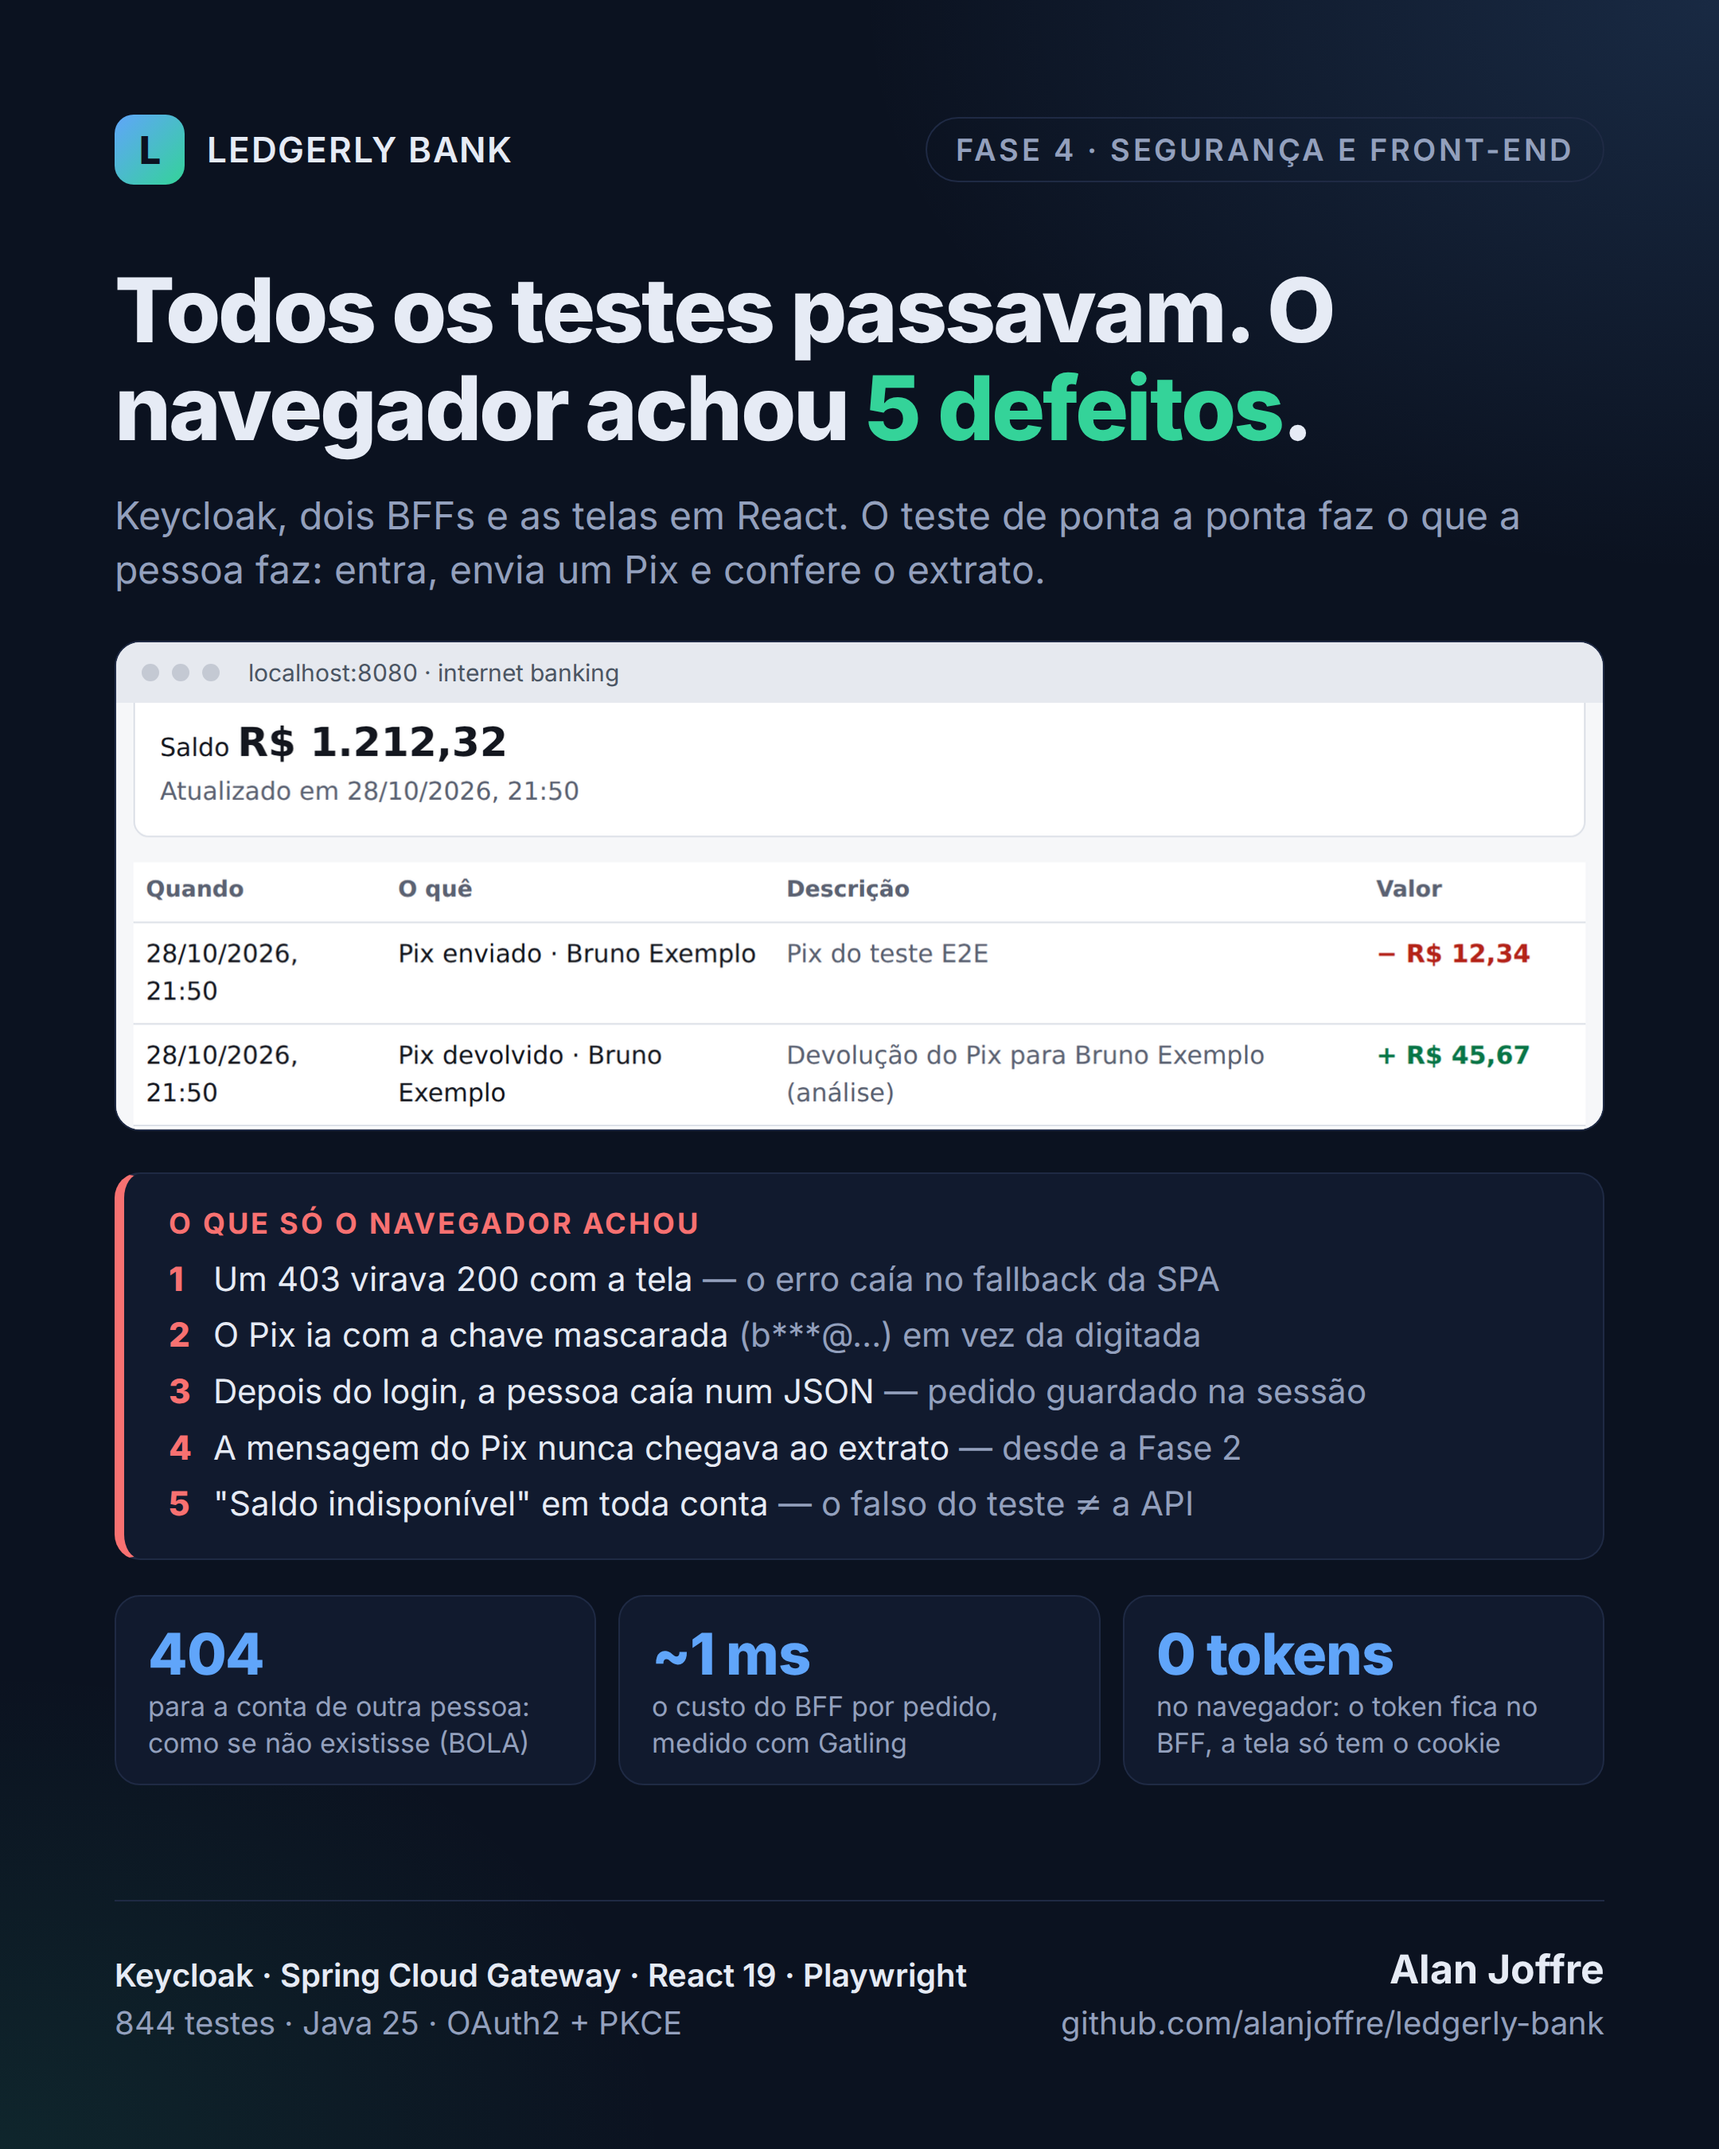
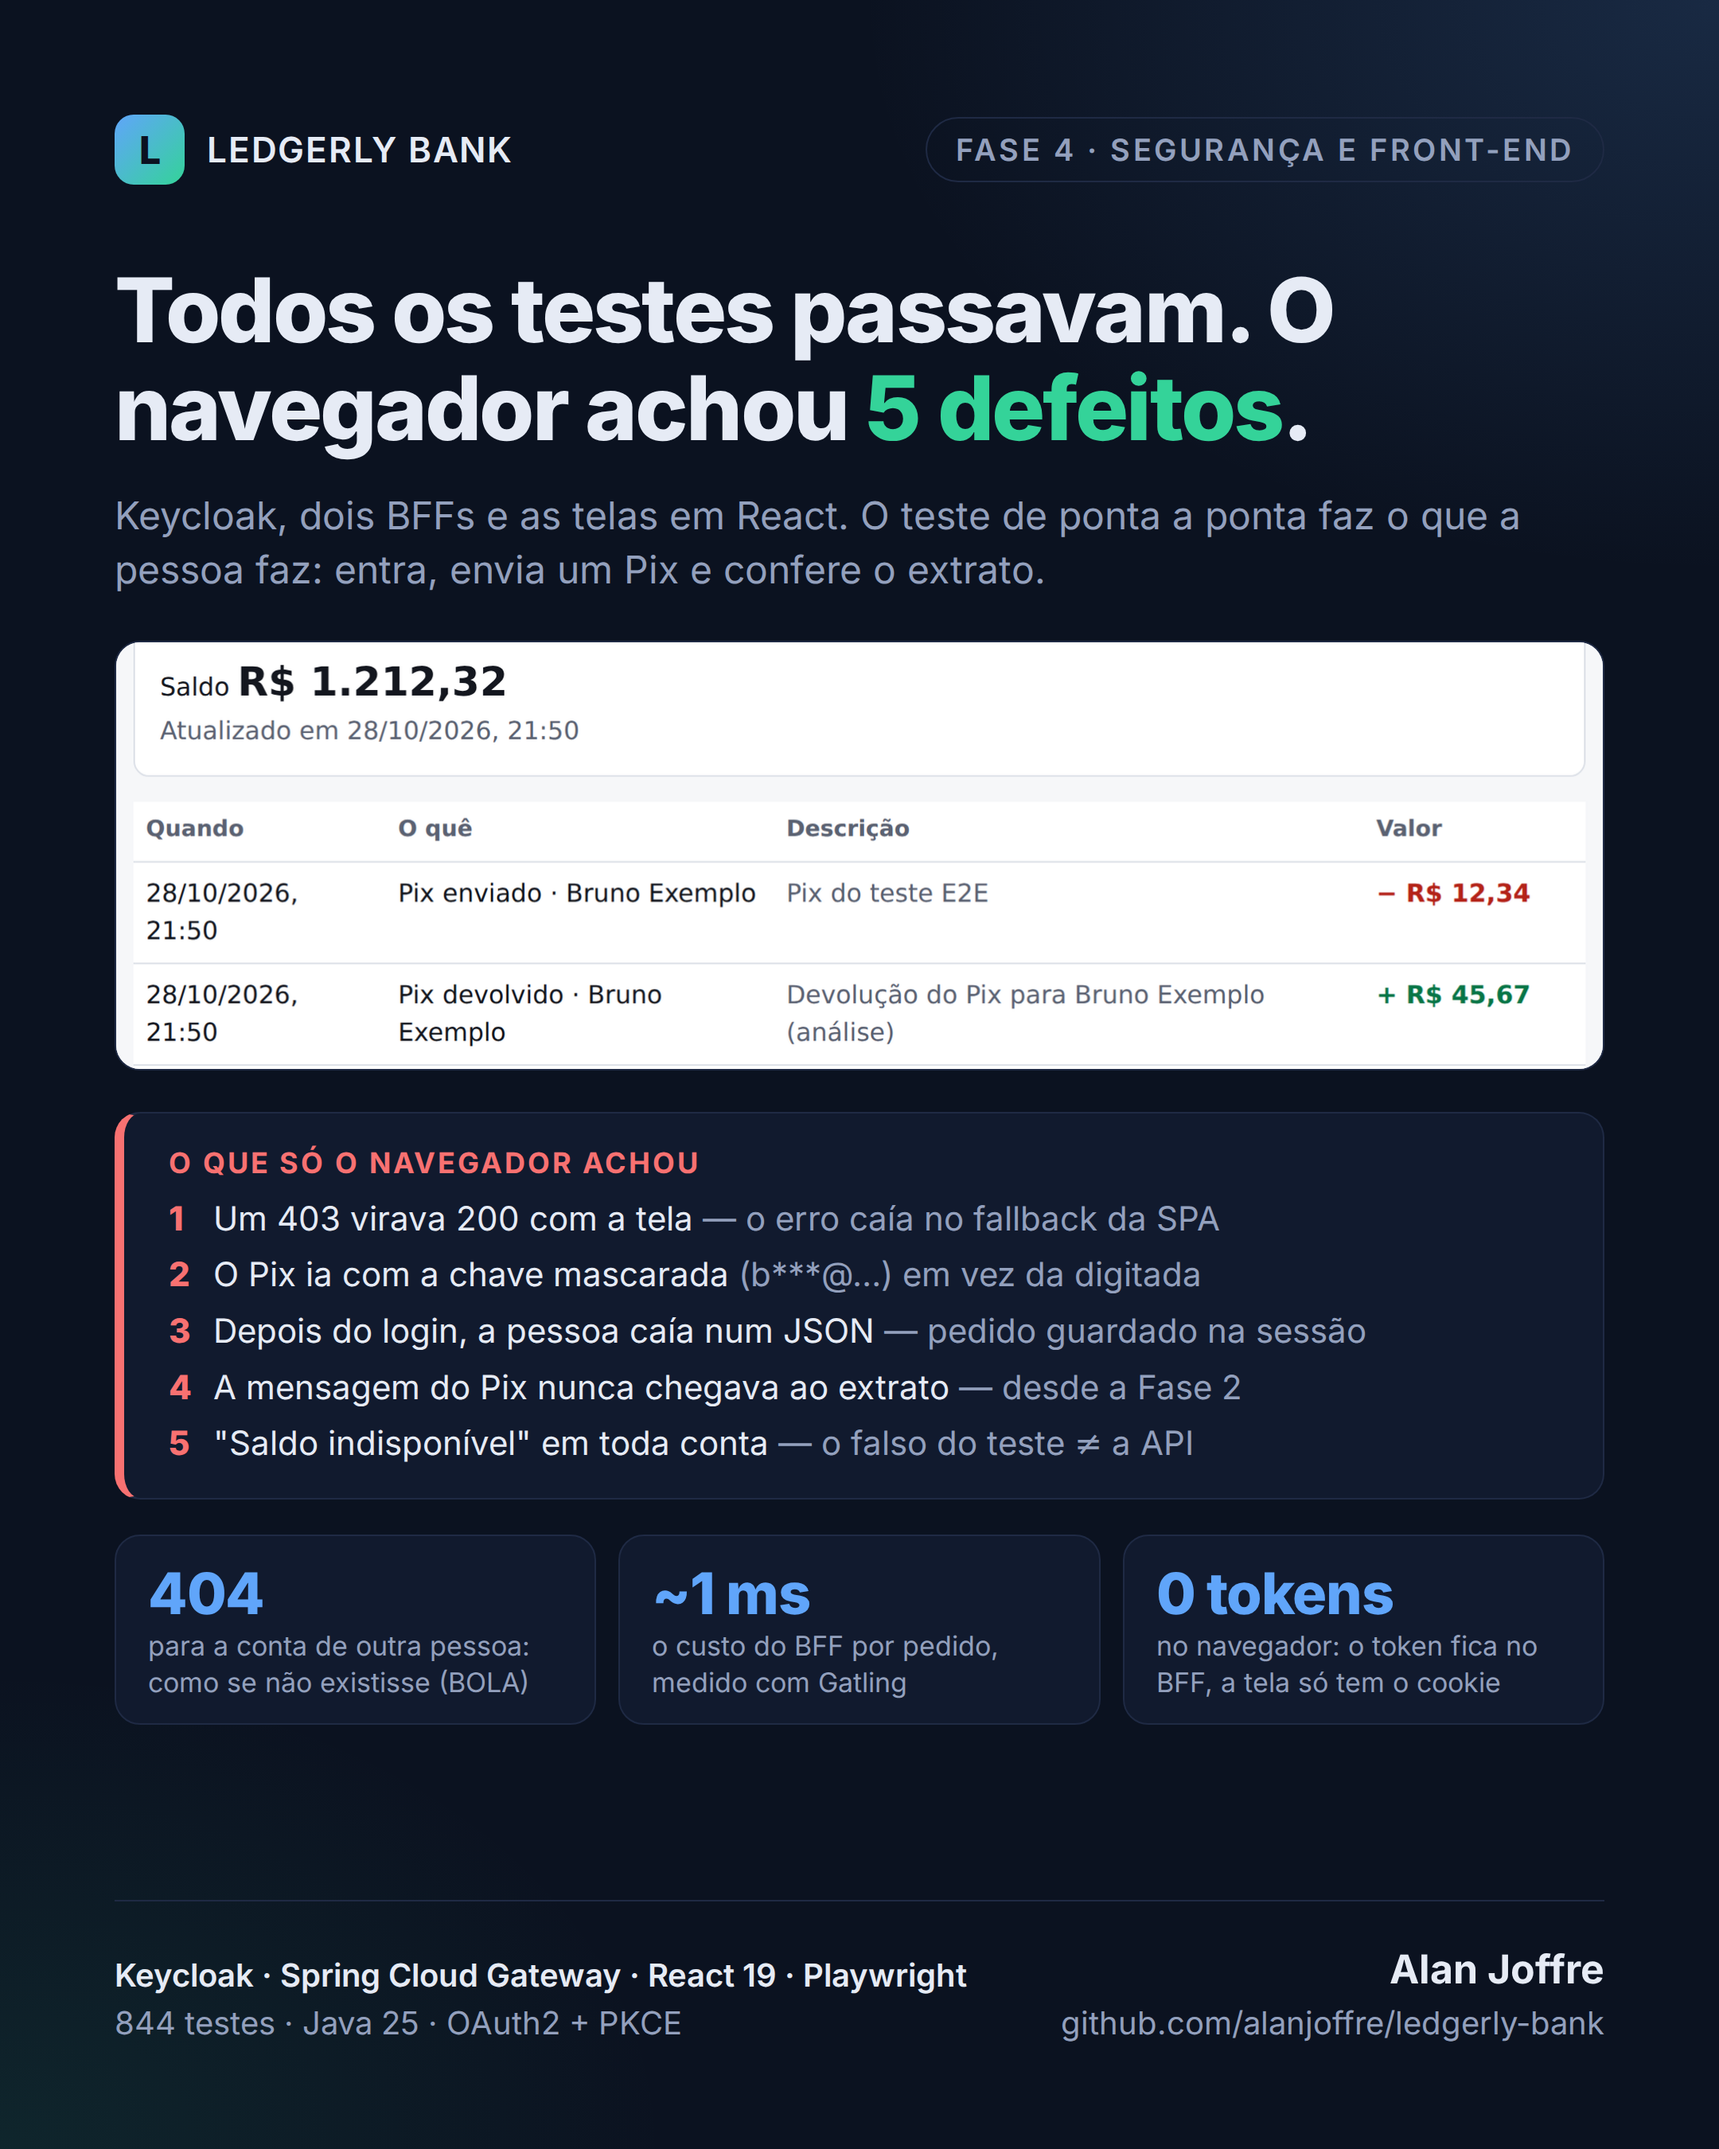
docs(linkedin): imagem da Fase 4 sem a barra do navegador

Changed region(s): [[0.062, 0.28, 0.9306, 0.84]]

diff --git a/docs/linkedin/imagens/fase-4.html b/docs/linkedin/imagens/fase-4.html
@@ -54,12 +54,6 @@
     margin-top: 28px; border-radius: 16px; overflow: hidden; border: 1px solid var(--linha);
     background: #f5f6f8;
   }
-  .tela .barra {
-    background: #e6e9ef; padding: 10px 16px; display: flex; align-items: center; gap: 8px;
-    font-size: 15px; color: #4b5563;
-  }
-  .tela .barra i { width: 11px; height: 11px; border-radius: 50%; background: #c4c9d3; display: inline-block; }
-  .tela .barra span { margin-left: 10px; }
   .tela img { display: block; width: 100%; }
   .achados {
     margin-top: 26px; background: var(--cartao); border: 1px solid var(--linha); border-left: 6px solid var(--vermelho);
@@ -96,7 +90,6 @@
   <p class="sub">Keycloak, dois BFFs e as telas em React. O teste de ponta a ponta faz o que a pessoa faz: entra, envia um Pix e confere o extrato.</p>
 
   <div class="tela">
-    <div class="barra"><i></i><i></i><i></i><span>localhost:8080 · internet banking</span></div>
     <img src="fase-4-extrato.png" alt="Extrato do internet banking com os Pix enviados e a devolução">
   </div>
 
